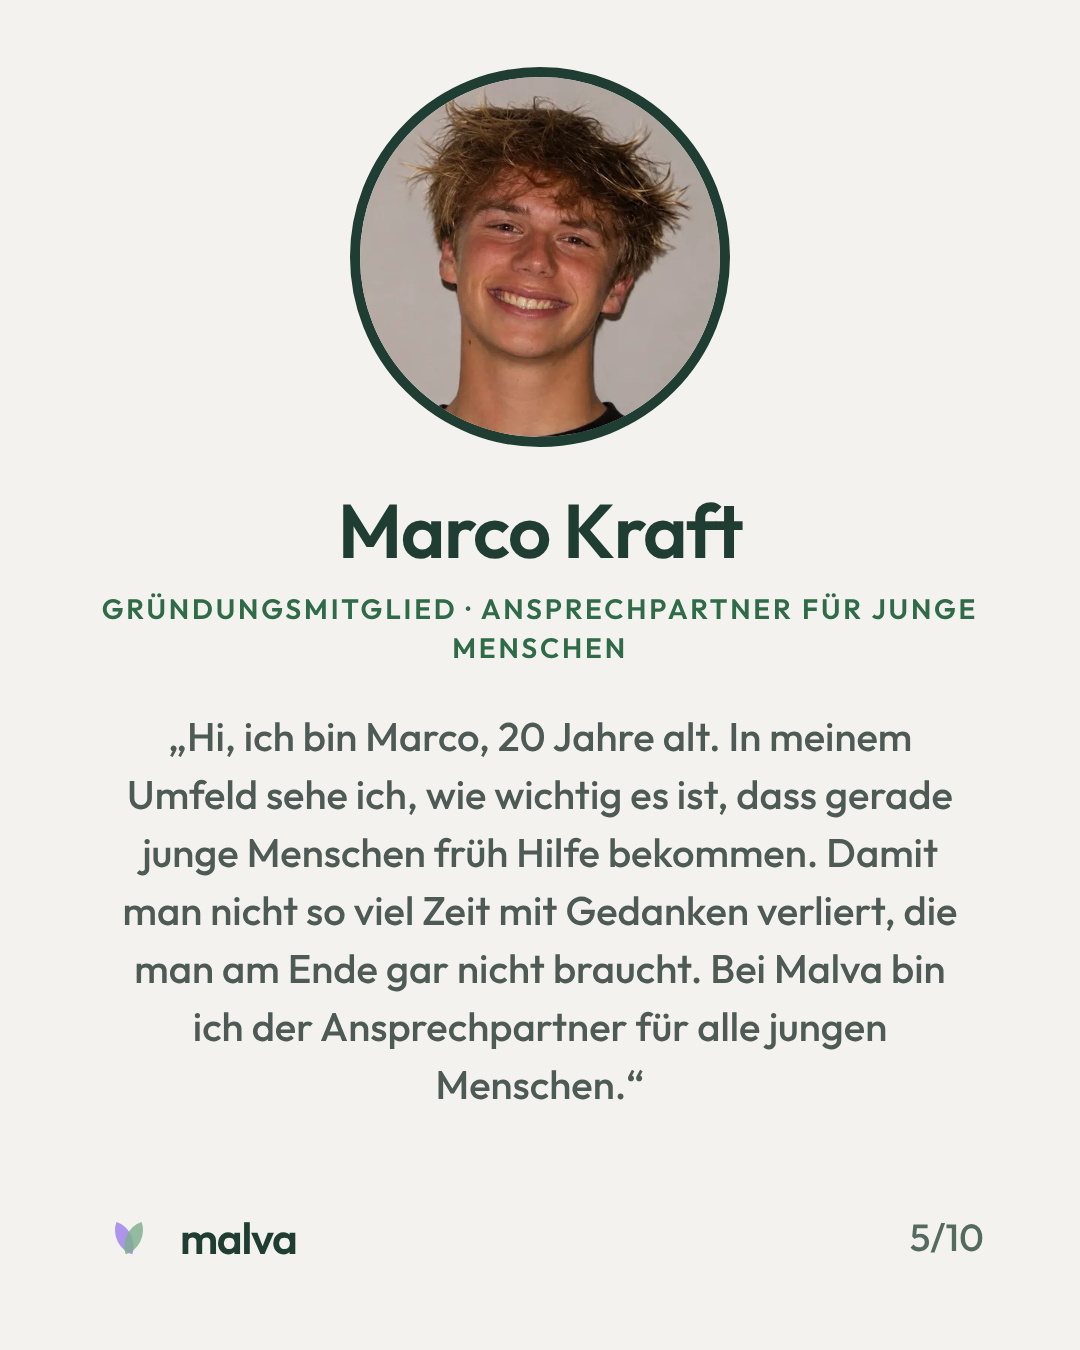
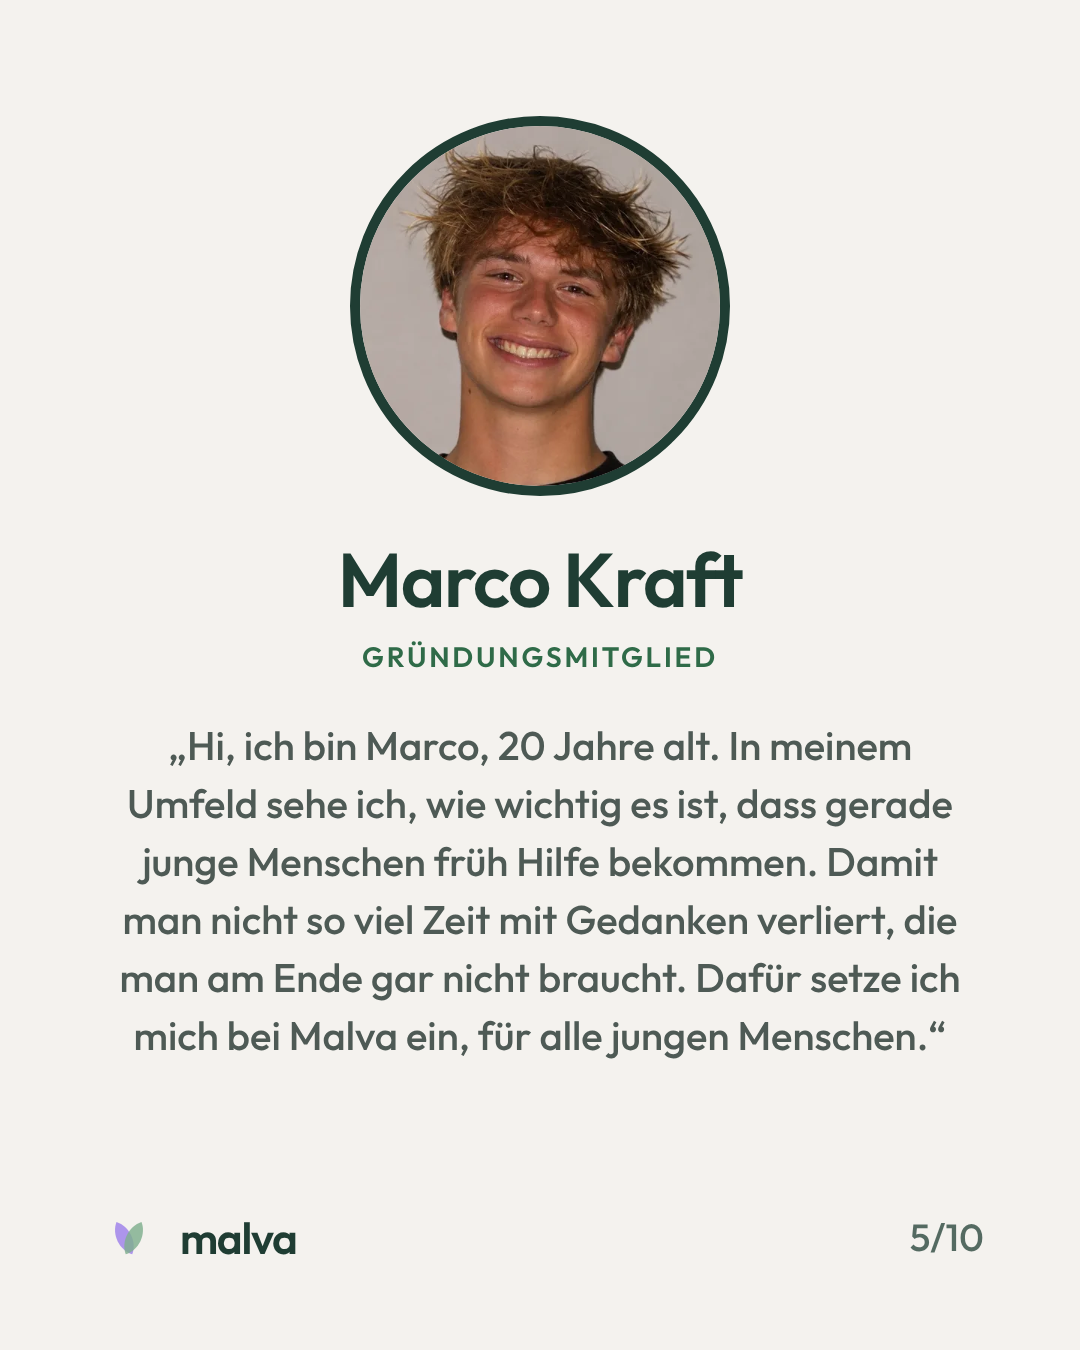
Marco: Ansprechpartner für junge Menschen entfernt (Website und Karussell)
Claude-Session: https://claude.ai/code/session_015uEer6M6e5oi78ZvJtGjnt

Changed region(s): [[0.1222, 0.5289, 0.8861, 0.8089], [0.0917, 0.0311, 0.9167, 0.4978]]

diff --git a/malva-website/instagram/team/slides.html b/malva-website/instagram/team/slides.html
@@ -76,8 +76,8 @@ h2{font-weight:600;font-size:82px;line-height:1.12;letter-spacing:-.025em}
 <section class="slide light m" id="s05">
   <img class="pic" src="../../src/assets/img/marco-kraft-rund.webp" alt="">
   <p class="nm">Marco Kraft</p>
-  <p class="rl">Gründungsmitglied · Ansprechpartner für junge Menschen</p>
-  <p class="q">„Hi, ich bin Marco, 20 Jahre alt. In meinem Umfeld sehe ich, wie wichtig es ist, dass gerade junge Menschen früh Hilfe bekommen. Damit man nicht so viel Zeit mit Gedanken verliert, die man am Ende gar nicht braucht. Bei Malva bin ich der Ansprechpartner für alle jungen Menschen.“</p>
+  <p class="rl">Gründungsmitglied</p>
+  <p class="q">„Hi, ich bin Marco, 20 Jahre alt. In meinem Umfeld sehe ich, wie wichtig es ist, dass gerade junge Menschen früh Hilfe bekommen. Damit man nicht so viel Zeit mit Gedanken verliert, die man am Ende gar nicht braucht. Dafür setze ich mich bei Malva ein, für alle jungen Menschen.“</p>
   <div class="foot"><div class="brand" data-mark="h"><span>malva</span></div><span class="num">5/10</span></div>
 </section>
 <section class="slide dark m" id="s06">

diff --git a/malva-website/CHECKLISTE-NACH-EINTRAGUNG.md b/malva-website/CHECKLISTE-NACH-EINTRAGUNG.md
@@ -84,7 +84,6 @@ Reihenfolge: **A** sofort nach der Eintragung ins Vereinsregister · **B** sobal
 ---
 
 ## Sobald es weitere Postfächer gibt
-- [ ] Eigene E-Mail-Adresse für Marco (Ansprechpartner junge Menschen) in `src/team.njk` unter `email:` eintragen.
 
 ## Später (2027)
 - [ ] Newsletter einbauen: Anbieter mit EU-Servern und Double-Opt-in, Anmeldefeld auf Startseite/Footer, Datenschutzerklärung ergänzen (Plan in `NOTIZEN.md`).
